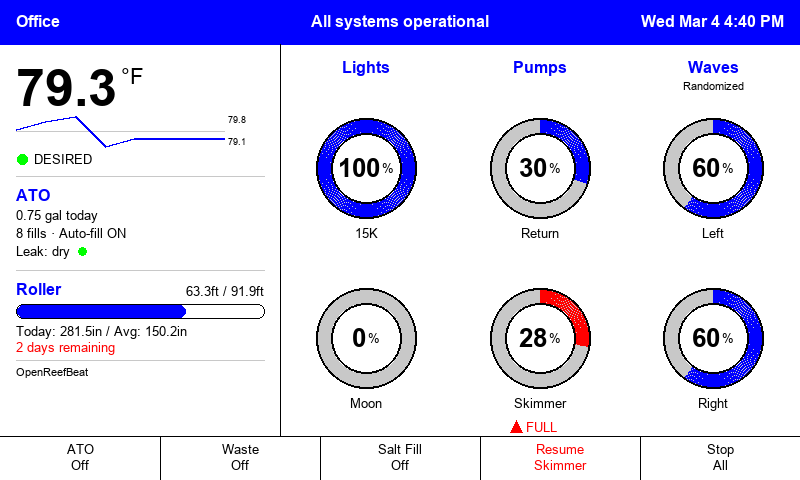
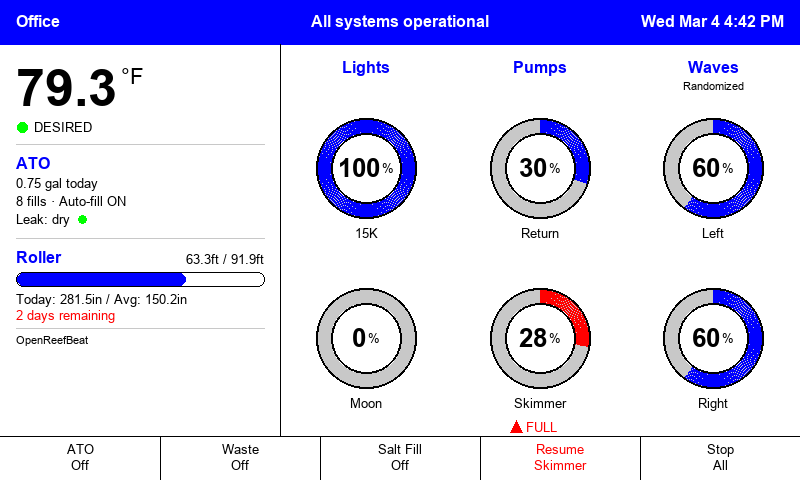
Remove temperature sparkline from preview to match Inky Frame
The Inky Frame doesn't store history, so the preview should match.

Changed region(s): [[0.0, 0.25, 0.3438, 0.7812], [0.2812, 0.2188, 0.3125, 0.25]]

diff --git a/display.py b/display.py
@@ -265,13 +265,7 @@ def render_dashboard(data, temp_history=None, location=""):
     else:
         draw.text((lx, y), "--.-", fill=RED, font=FONT_TEMP)
 
-    # Sparkline — temperature history
-    y += 58
-    if temp_history and len(temp_history) >= 2:
-        draw_sparkline(draw, lx, y, LEFT_W - PAD * 2 - 40, 30, temp_history, BLUE)
-        y += 36
-    else:
-        y += 4
+    y += 62
 
     # Level
     level = data.get("water_level", "?")

diff --git a/README.md b/README.md
@@ -8,7 +8,7 @@ A reverse-engineered API client for the [Red Sea ReefBeat](https://www.redseafis
 
 OpenReefBeat talks directly to the ReefBeat cloud API, pulling live data from all your connected devices:
 
-- **Water temperature** with 10-day historical sparkline
+- **Water temperature** — large readout in Fahrenheit
 - **Water level** with green/red status indicator and ATO fill stats (volume, fill count, auto-fill status)
 - **Leak detection** with green/red status indicator
 - **Light status** — intensity, color temp, white/blue/moon channels, LED temps, fan speed
@@ -221,7 +221,6 @@ Other ReefBeat-connected devices likely work — the API patterns are consistent
 - [x] **Roller detail** — used/total in feet, daily usage in inches, color-coded progress bar
 - [x] **Interactive buttons** — five toggle buttons for ATO, waste, salt fill, skimmer resume, stop all
 - [x] **Multi-WiFi support** — configure multiple networks with automatic failover
-- [x] **Temperature history** — sparkline chart from rolling 10-day history
 - [x] **History rotation** — auto-trim to 30 days to prevent storage bloat
 - [ ] **Button API integration** — wire physical buttons to ReefBeat API commands
 - [ ] **Alerts** — local notifications (LED, buzzer, or push) when values go out of range
